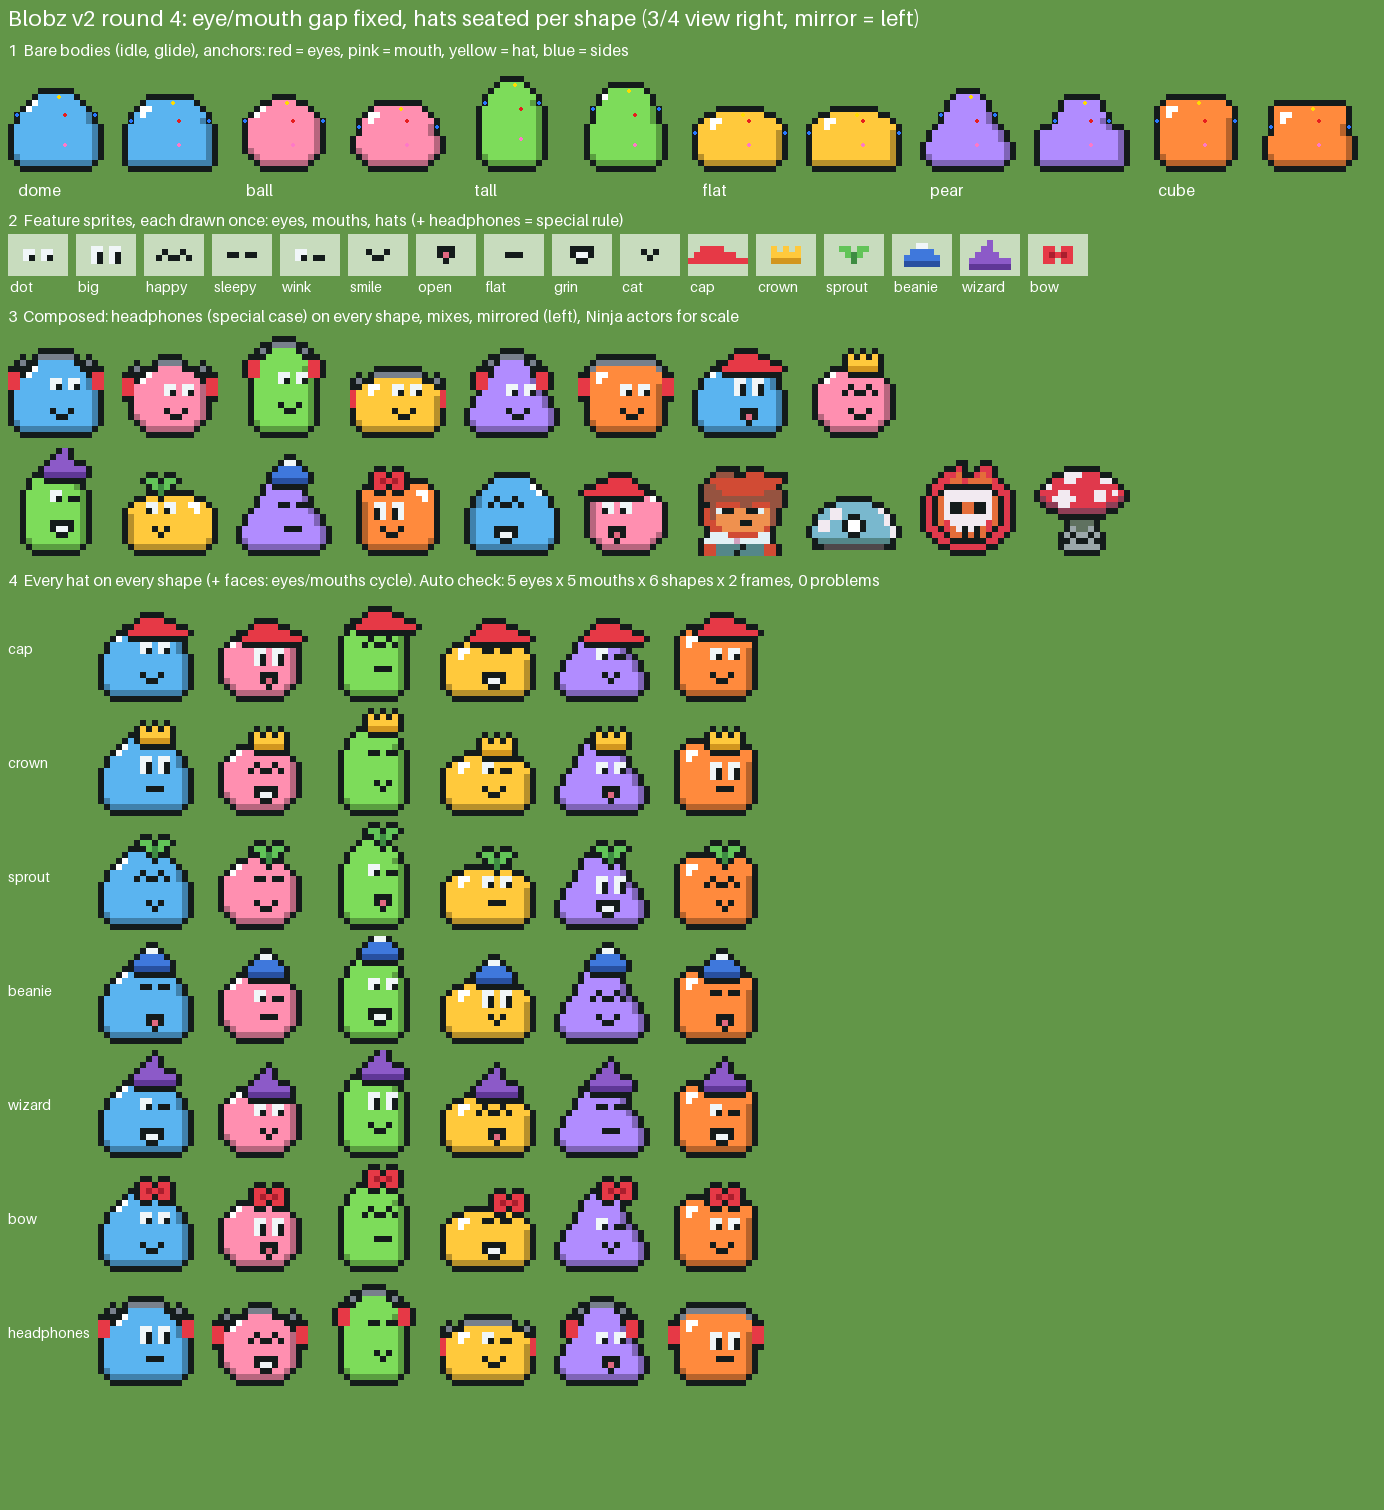
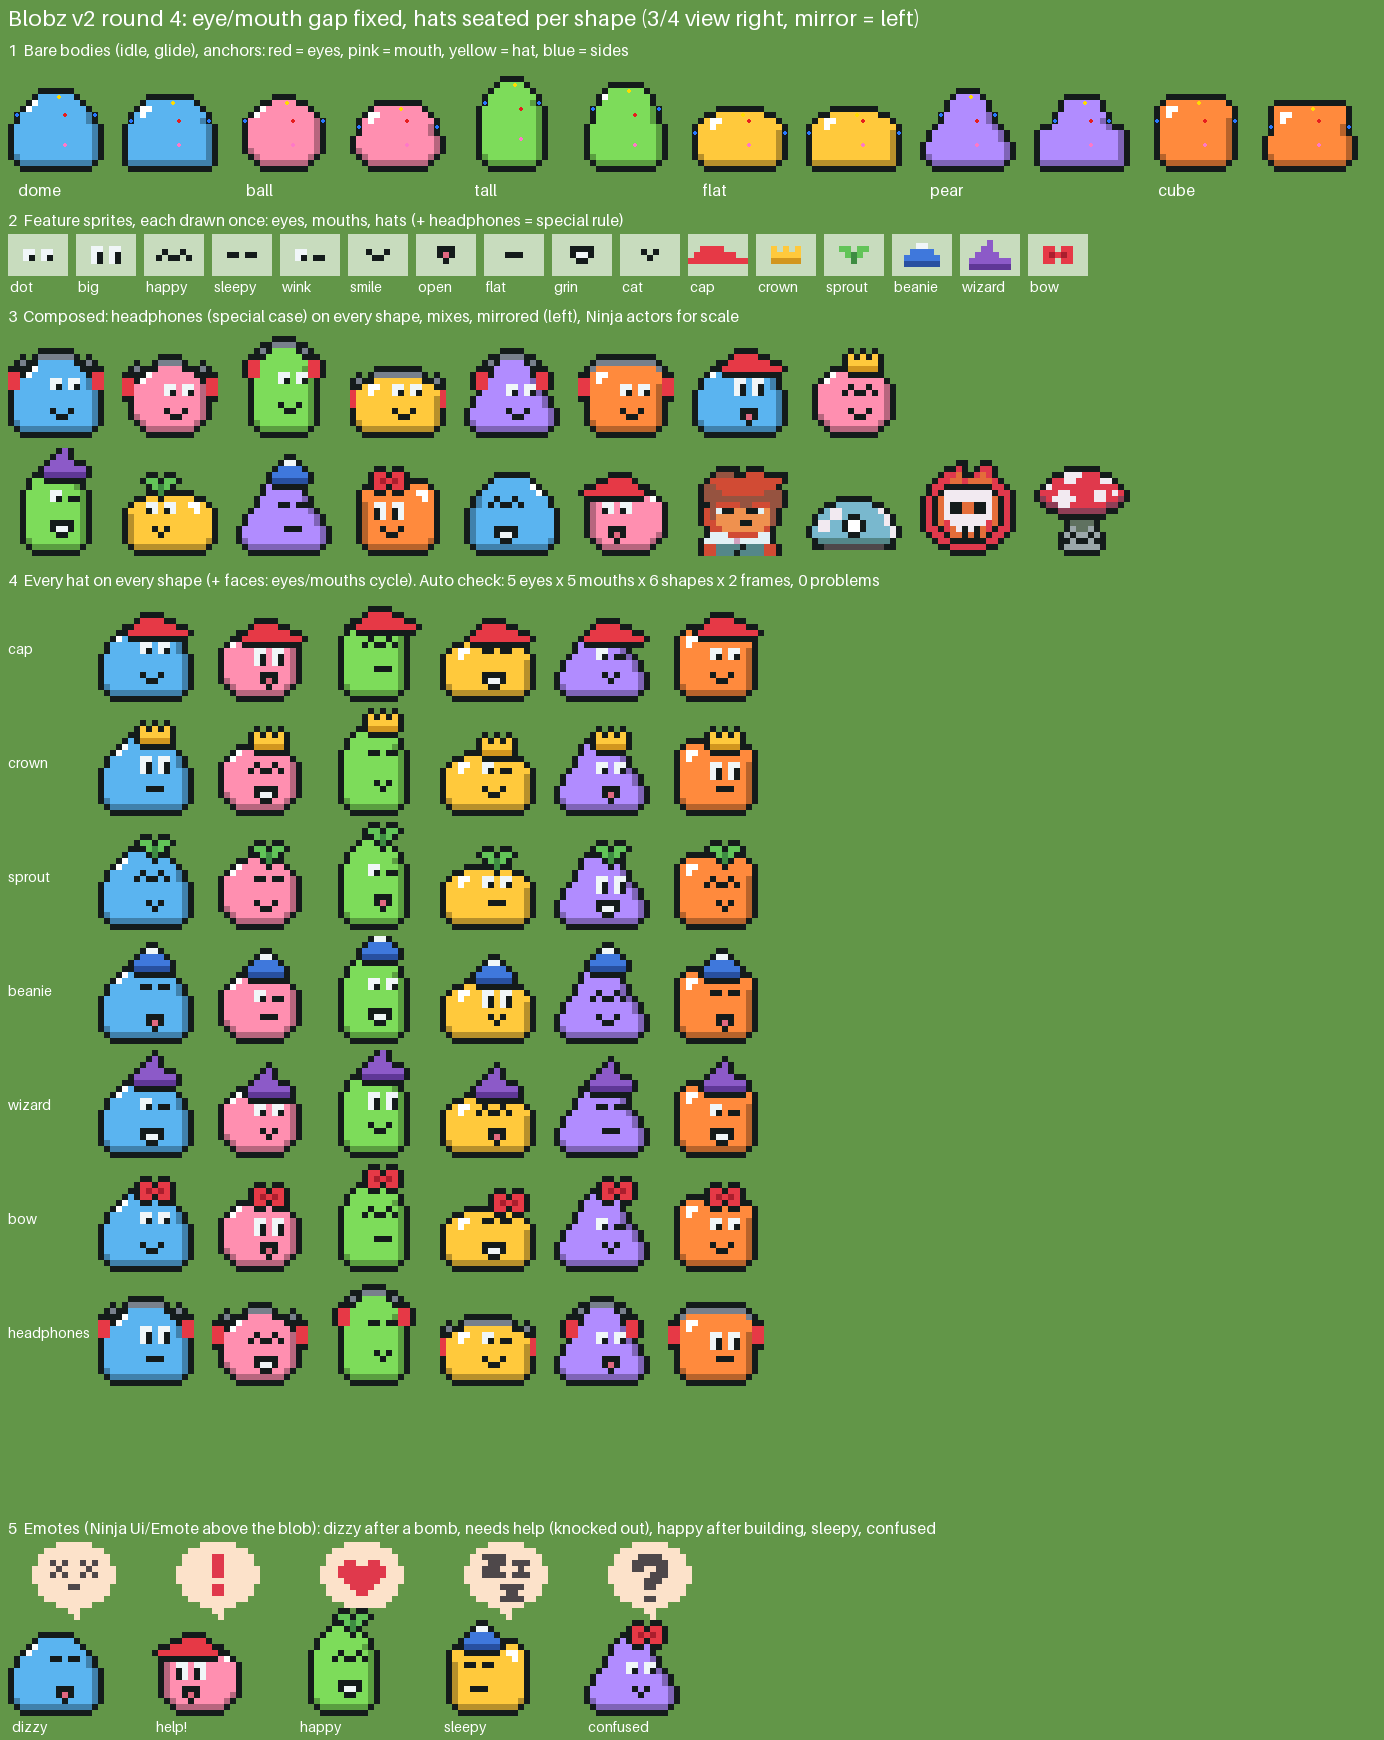
docs(art): blobz v2 round 4 sheet, emote examples row
Claude-Session: https://claude.ai/code/session_019PjhQv7Xfjv9fRCZgvquZ1

diff --git a/blobz/scripts/blobz_v2_mock.py b/blobz/scripts/blobz_v2_mock.py
@@ -275,6 +275,19 @@ def main(scale=6):
             out.alpha_composite(big(im), (pad + 90 + k * cell, y))
         y += FH * scale + 6
     y += FH * scale + 10
+    y += 8
+    d.text((pad, y), '5  Emotes (Ninja Ui/Emote above the blob): dizzy after a bomb, needs help (knocked out), happy after building, sleepy, confused', fill=WHITE, font_size=16)
+    y += 24
+    em = [('dizzy', 3, 'dome', 'sleepy', 'open', None), ('help!', 22, 'ball', 'big', 'open', 'cap'), ('happy', 27, 'tall', 'happy', 'grin', 'sprout'),
+          ('sleepy', 28, 'cube', 'sleepy', 'flat', 'beanie'), ('confused', 23, 'pear', 'dot', 'cat', 'bow')]
+    for k, (lab, n, sh, e, mo, h) in enumerate(em):
+        x0 = pad + k * (cell + 30)
+        bub = Image.open(os.path.join(NA, 'Ui', 'Emote', f'emote{n}.png')).convert('RGBA')
+        bl = compose(sh, COLOURS[k], e, mo, h, mirror=k % 2 == 1)
+        out.alpha_composite(big(bub), (x0 + (FW * scale - bub.width * scale) // 2 + 3 * scale, y))
+        out.alpha_composite(big(bl), (x0, y + (bub.height - 2) * scale))
+        d.text((x0 + 4, y + (bub.height - 2 + FH) * scale + 2), lab, fill=WHITE, font_size=14)
+    y += (13 - 2 + FH) * scale + 24
     out.crop((0, 0, w, y)).save(OUT)
     print(OUT, (w, y))
 
